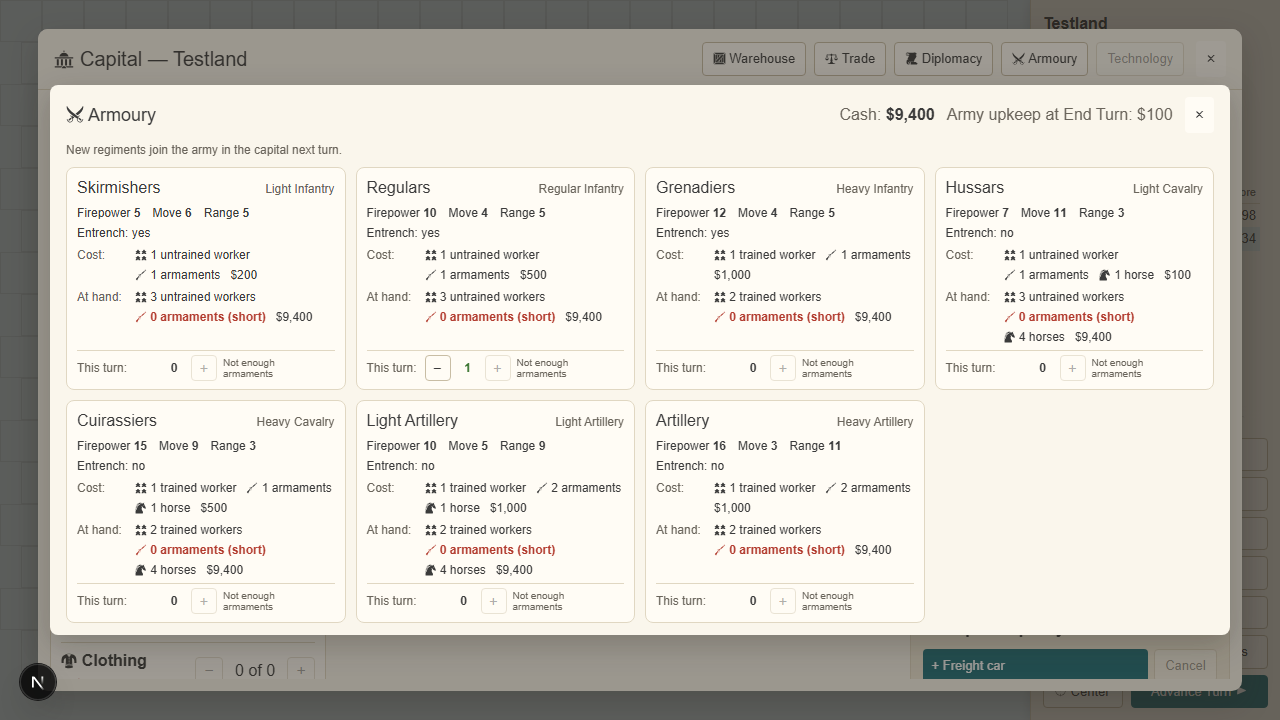
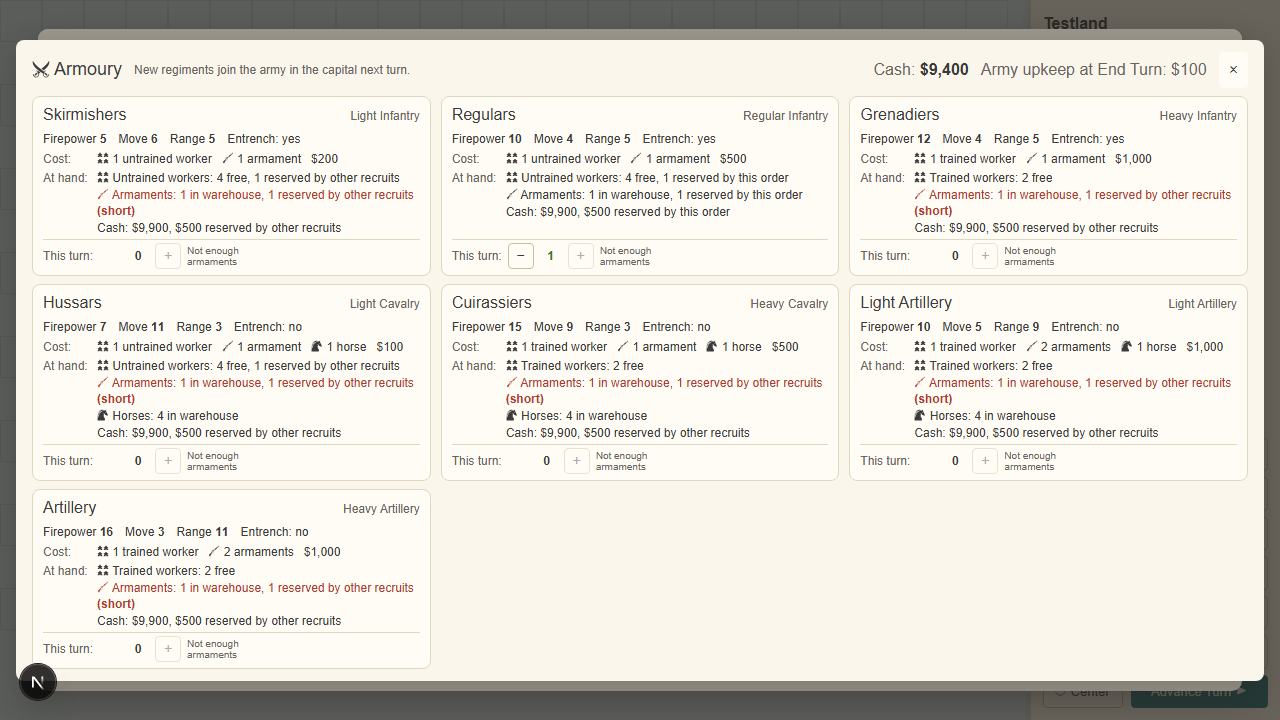
docs(m8): review of the QA fix round: FR-270, FR-271, journal entry with evidence, map shot after orders
- Requirements: FR-270 (marches both ways), FR-271 (arrow ends measured in the browser, the map shot);
  FR-263's status names them; the QA input shots are those of 744d755.
- Journal: the entry (findings, red runs, gate); Resuming here; the engine and UI halves' entries moved
  unchanged to docs/journal/archive-M8.md (the journal stays under 400 lines).
- Architecture: the opposite-arrow offset and the e2e check.
- Screenshots: docs/journal/m8-qa-map.png new; m8-armoury.png, m8-army.png, m8-map.png re-taken from
  the current code.

Changed region(s): [[0.0, 0.0306, 1.0, 0.9472]]

diff --git a/docs/journal.md b/docs/journal.md
@@ -22,7 +22,8 @@
   `docs/journal/archive-M7.md`). Card Q47 (the World market's greyed "−") still open.
 - 2026-11-13 M8 Armies in progress on `claude/m8-armies` (worktree `imperialism-game-revival-fee36d`): the engine half
   (FR-199 to FR-209, FR-213, FR-215), the UI half (FR-210 to FR-212, FR-214), the review fix round (20 findings,
-  FR-260 to FR-262) and the QA fix round (7 items, FR-263 to FR-269) are committed; not pushed. Next: the re-review, the PR.
+  FR-260 to FR-262), the QA fix round (7 items, FR-263 to FR-269) and its review's fixes (3 findings, FR-270, FR-271) are
+  committed; not pushed. The engine and UI halves' entries are in `docs/journal/archive-M8.md`. Next: the re-review, the PR.
 
 Carried forward:
 - Deferred: river ports and the depot-on-port rule (rules 04); University fees; the power plant.
@@ -175,128 +176,12 @@ the Board of Trade and the Deal Book, the scripted player trading through it, on
 FR-259 tested; 1458 unit tests, Playwright 32 passed, 1 skipped; every v1 baseline unchanged. Merged as PR 25 (main d16afa7).
 Open: card Q47 (the World market's greyed "−").
 
-## 2026-11-13 M8 Armies, engine half (FR-199 to FR-209, FR-213, FR-215)
+## 2026-11-13 M8 Armies, engine half and UI half (archived)
 
-Size: L (engine-wide: new state, four order kinds, three turn steps, the scripted player). One engine agent (Opus 5.5, xhigh, no
-subagents, no advisor call), started by the M8 workflow. Branch `claude/m8-armies` from main d16afa7 (worktree
-`imperialism-game-revival-fee36d`), not pushed. The UI agent builds FR-210 to FR-212 and FR-214 next, on the API below.
-
-Plan-lite:
-- Change: `state.armies` in the FR-204 shape (one army per country per province) with `state.regimentsRaised`; the regiment table
-  `definisions/regiments.ts`; `engine/army/` (reads, edits, start forces); `orders/armyOrders.ts` (`setRecruitment`, `moveArmy`,
-  `cancelArmyMove`, `disbandRegiments`, reason `not-adjacent`); `systems/armySystem.ts` (disbands and upkeep after trade, recruits
-  after combat) and the combat phase (marches, healing); `ai/scriptedArmy.ts`; `militaryStrength` on the new armies.
-- Consumers: the map markers, the Army screen and the Armoury (UI half), the news, the Deal Book's bottom line, the scripted player, M9.
-- Tests: FR-199 `engine/regiments.test.ts` (13); FR-200, 201, 203 to 208 `engine/armies.test.ts` (51) and `engine/validate.test.ts` (4
-  accepted, 35 refusal rows); FR-202 `engine/upkeep.test.ts` (9); FR-205 text and FR-209 `ui/gameText.test.ts` (13; "14" until the review fix round, R10); FR-213
-  `engine/scriptedArmy.test.ts` (13); FR-174 `engine/scriptedDiplomacy.test.ts` (builders rewritten); FR-215 `engine/continentScore.test.ts`,
-  `engine/v2Trade40.test.ts`.
-- Verify: `npm test`, `npm run lint`, `npx tsc --noEmit`, `npm run build`, `PORT=3168 npx playwright test --workers=1`.
-- Objection: decision 2 adds a scripted-player rule no FR states (keep two turns of upkeep); without it nation 2 lost 2 of its 3 field
-  regiments for want of money on seed 2 (continent, world market).
-
-Decisions (defaults, nobody to ask):
-1. A march into another country's province is refused in M8: `not-at-war` without an active war (FR-205), `not-owner` with one, until M9
-   builds the attack (FR-216). The "March to" choices (`marchTargets`) are the nation's own bordering provinces only.
-2. FR-213 "keeps a garrison": the scripted player drops any order that would take its treasury below two turns of upkeep (one on the last
-   turn). FR-157's games then pay $100 every turn with nothing disbanded. Objection: in the partners games a nation whose income stops
-   in the last turns still loses its field army (seed 2 nation 1 on turn 39, seed 4 nation 2 on turn 40); a full reserve would cost
-   development. Suggested card for the page: keep it, revisit with M9's war AI.
-3. One pending order per regiment: a march replaces its disband and a disband its march; `cancelArmyMove` cancels marches only, so a
-   disband is undone only by ordering a march (the Army screen shows no control for it, FR-211).
-4. Ids `regiment-<n>`, n counting every regiment ever raised (higher = newer, FR-202); names from a per-owner, per-type counter, so the
-   recruit after a disbanded "3rd Regulars" is "4th Regulars". Armies are kept sorted by province then owner, regiments by id.
-5. FR-203 numbering: the field army first (ids 1 to 3 for Testland), then the Minutemen province by province in state order (NW 1st to
-   4th, NE 5th to 8th, SW 9th to 12th, SE 13th to 16th); each minor 1st to 3rd.
-6. Recruiting is `Nation.recruiting` (it involves no second country, so no intent); the workers leave `industry.workers` when ordered
-   and neither work nor eat that turn. A nation that no longer holds its capital province raises no recruit (M9 edge).
-7. FR-213 under a threat: the run's armaments come first, their steel is kept from expansion, and the 2 armaments are kept from the
-   world market. Healing (FR-208) applies to minors' militia too.
-8. Baselines: the FR-157 conditions run on the real continent (with the upkeep); every turn-by-turn equality with two-islands (FR-157's
-   score, FR-215's 40-turn M4 comparison, FR-245's "world" test) runs on the continent without the start forces (`withoutStartForces`,
-   tests/engine/armyFixtures.ts). In "world" the current scripted player sells the 4 start horses on turn 1 (partners: goods only).
-9. The M6 and M7 tests that read a continent treasury after End Turn count the $100 upkeep (`UPKEEP` in diplomacy.test.ts), and four e2e
-   specs too (play-turns, market-and-game-over, m6-diplomacy, m7-trade). The Deal Book's `militaryUpkeep` reads `army-upkeep`.
-
-API for the UI half (all from `@/engine`):
-- Data: `REGIMENTS[type]` (`name`, `category`, `arm`, `stats` with FPN, move, range, `armamentsCost`; `worker`, `horses`, `cash`),
-  `RECRUITABLE_REGIMENTS` (the 7 Armoury types), `entrenches(type)`, `isMilitia(type)`, `UPKEEP_PER_ARMS`.
-- Map markers (FR-210): `armyMarkers(state)` gives `{ provinceId, seatTileId, ownerId, forceSize, regiments, militia }`, the province's
-  owner first. Army screen (FR-211): `armyAt(state, ownerId, provinceId)`, `forceSize(army)`, `regimentStatus(state, id)` (`defending`,
-  `available`, `marching` with `toProvinceId`, `disband-ordered`), `marchTargets(state, nationId, provinceId)`. Armoury (FR-212):
-  `recruitingOf(nation, type)`, `freeWorkersOf(nation, grade)`, `capitalProvinceOf(state, id)`.
-- Orders: `setRecruitment { regiment, count }`, `moveArmy { fromProvinceId, regimentIds, toProvinceId }`, `cancelArmyMove { regimentIds }`,
-  `disbandRegiments { provinceId, regimentIds }`; `validateOrder` gives each refusal, `REFUSAL_TEXT["not-adjacent"]` its words.
-- The news panel already names provinces in "3 regiments marched from ... to ...".
-
-| Claim | Command | Result (quoted) |
-|---|---|---|
-| Red: the new and changed tests before the implementation | `npx vitest run` on the 7 files (`.gate/m8/red.txt`) | `Test Files 7 failed (7)`, `Tests 17 failed \| 77 passed (94)`; 5 files fail to load (`Cannot find module '@/engine/army/armies'`, `'@/definisions/regiments'`, `'@/engine/ai/scriptedArmy'`, `'@/engine/systems/armySystem'`); e.g. `expected [ +0, +0 ] to deeply equal [ 36, 36 ]`, `expected undefined to be '2 Regulars recruited.'` |
-| Red: decision 2 (the guard switched off) | `npx vitest run tests/engine/scriptedArmy.test.ts tests/engine/continentScore.test.ts` | `Test Files 2 failed (2)`: `expected 50 to be greater than or equal to 100`; FR-157 seed 2 `"noPay": 2` |
-| Unit tests | `npm test` | `Test Files 87 passed (87)`, `Tests 1603 passed (1603)` (+145 on 1458) |
-| v1 baselines unchanged (FR-159) | `npm test` console; `git diff --stat d16afa7 --` the eight FR-159 files | `FR-125 seed 1: t15 616/390 (1.58) ... t40 1493/650 (2.30)` as on main; the diff is empty |
-| FR-157, FR-215 | `npm test` console | `continent with the start army / without / two-islands: [[1,1419,1493,1493],[2,1451,1496,1496],[3,1441,1490,1490],[4,1469,1476,1476]]` |
-| FR-247 measured again | `npm test` console | seed 1 `"minorDeals":[54,50],"minorPurchases":[24,17],"minorsDealt":[4,1],"treasury":[805,3177]`; all four in FR-247's status |
-| Lint | `npm run lint` | `✖ 3 problems (0 errors, 3 warnings)` (the three of M6) |
-| Types | `npx tsc --noEmit` | exit 0, no output |
-| Build | `npm run build` | `✓ Compiled successfully in 5.9s`, `✓ Generating static pages (4/4)` |
-| e2e, before the four specs counted the upkeep | `PORT=3168 npx playwright test --workers=1 --reporter=line` | `30 passed (2.8m)`, `2 failed` (`Expected: 9500 Received: 9400`, `Expected: 10297 Received: 10197`), `1 skipped` |
-| e2e, after | same | `32 passed (3.0m)`, `1 skipped` (the old skip) |
-
-In the app (once the UI half is in): New game; End Turn: the news reads "Army upkeep: $100." and the Deal Book's bottom line
-"Military upkeep $100".
-
-## 2026-11-13 M8 Armies, UI half (FR-210 to FR-212, FR-214)
-
-Size: L (milestone UI half: map markers, two new dialogs, one e2e spec). One UI agent (Opus 5.5, xhigh, no subagents, no
-advisor call), started by the M8 workflow on the engine half's API. Branch `claude/m8-armies`, not pushed.
-
-Plan-lite:
-- Change: `components/army/armyView.ts` (markers by seat tile, the Army screen's rows and controls) and `armouryView.ts` (the
-  cards), no React; `Tile/TileArmy.tsx` (the markers), `ArmyModal.tsx`, `ArmouryModal.tsx`, `army/Army.module.css`; store flags
-  `armyProvinceId` (`openArmy`, `closeArmy`) and `isArmouryOpen` (`openArmoury`, `closeArmoury`), both reset by New game;
-  `selectArmyMarkersBySeat`; the capital's "Armoury" button on a world with provinces; three Game Icons (tent, pitchfork, sabres).
-- Consumers: the player; M9 adds "Attack Arvelia" to "March to" and the Attack screen (FR-230) on the same view module.
-- Tests: FR-210 `ui/armyMarkers.test.tsx` (9); FR-211 `ui/armyDialog.test.tsx` (19); FR-212 `ui/armouryDialog.test.tsx` (15);
-  FR-022 `ui/uiWritesOnlyOrders.test.ts` (+1: the new screens are scanned and send through submitOrder); FR-084 `ui/icons.test.tsx`
-  and FR-160 `store/computerNations.test.ts` (the new icon names and store keys added to their lists); FR-214 `e2e/m8-armies.spec.ts`.
-- Verify: `npm test`, `npm run lint`, `npx tsc --noEmit`, `npm run build`, `PORT=3160 npx playwright test --workers=1 --reporter=line`.
-- Objection: a 24 px marker cannot share a 42 px seat tile with the civilians' 24 px button without overlapping something; the
-  markers lie half over the seat's left edge and cover the right edge of the tile to the left (decision 2).
-
-Decisions (defaults, nobody to ask):
-1. The spec file is `e2e/m8-armies.spec.ts`, as FR-214 names it (the task brief said `e2e/m8.spec.ts`; the requirement row wins).
-2. Marker place: from 11 px left of the seat tile to 13 px inside it, 9 px from its top, so it clears the civilians' button in the
-   bottom right, the tile's icon and the level badge's text; on a minor's capital 1 px from the top, clear of its name tag. One
-   24 x 24 chip per country, the owner's colour as its border; the force size (tent) on that colour above, the militia
-   (pitchfork) below; a chip with one line shows it larger. Objection: on a developed Great Power seat the job markers under the
-   level badge are hidden behind the chip while a job runs (the tile panel still lists them).
-3. A marker without militia reads "Testland army: force size 2, 1 regiment" (no "0 militia"); "1 regiment" in the singular.
-4. The Army screen lists the regiments that may march first, then the militia; "Cancel march" is a button on each marching row;
-   nothing ticked reads "Tick the regiments to march first." (or "to disband"), no bordering province of ours "No province of ours
-   borders this one."; other refusals are the engine's words as a sentence ("The game is over."). The disband question's buttons
-   are "Yes, disband" and "Keep them"; Escape keeps them. A disband ordered has no control (engine decision 3, card kept).
-5. The Armoury shows horses in the cost and at hand only for the types that need them; "+" reasons: "Not enough money",
-   "Not enough armaments", "Not enough horses", "No free trained worker". A "This turn:" label stands before the count.
-6. Both dialogs lie at z-index 76 (as Diplomacy), over the capital; the Army screen is 860 px wide, the Armoury 1180 px with 4 cards
-   a row; at 1280x720 neither the page nor the dialog scrolls (checked in the e2e spec).
-
-| Claim | Command | Result (quoted) |
-|---|---|---|
-| Red: the new and changed UI tests before the implementation | `npx vitest run` on the 6 files (`.gate/m8ui/red.txt`) | `Test Files 6 failed (6)`, `Tests 3 failed \| 26 passed (29)`; 3 files fail to load (`Failed to resolve import "@/components/ArmyModal"`, `"@/components/ArmouryModal"`); `expected [ 'about', 'advanceTurn', …(16) ] to deeply equal [ …(19) ]` |
-| FR-210 to FR-212 covered | `npx vitest run` on the 6 files (`.gate/m8ui/green2.txt` and the full run) | `Tests 34 passed (34)` for the two dialog files; armyMarkers `9 tests` passed |
-| Unit tests | `npm test` (`.gate/m8ui/gate-test.txt`) | `Test Files 90 passed (90)`, `Tests 1647 passed (1647)` (+44 on 1603) |
-| v1 baselines and FR-215 unchanged | `npm test` console | `FR-125 seed 1: t15 616/390 (1.58) ... t40 1493/650 (2.30)` as on main; `[[1,1419,1493,1493],[2,1451,1496,1496],[3,1441,1490,1490],[4,1469,1476,1476]]` as in the engine half |
-| Lint | `npm run lint` | `✖ 3 problems (0 errors, 3 warnings)` (the three of M6) |
-| Types | `npx tsc --noEmit` | exit 0, no output |
-| Build | `npm run build` | `✓ Compiled successfully in 7.1s`, `✓ Generating static pages (4/4)` |
-| FR-214 | `PORT=3160 npx playwright test e2e/m8-armies.spec.ts --workers=1 --reporter=line` | `1 passed (13.7s)` |
-| e2e suite | `PORT=3160 npx playwright test --workers=1 --reporter=line` (`.gate/m8ui/e2e-final.txt`) | `33 passed (2.0m)`, `1 skipped` (the old skip) |
-
-In the app: New game; every province's seat shows its army marker (Testland's capital: a crimson chip "4" over "4", named
-"Testland army: force size 4, 3 regiments, 4 militia"). Click it: the Army screen; tick a regiment, "March to", March. Open Capital,
-Armoury: 7 cards, "+" disabled with "Not enough armaments" until the metal works make one. Screenshots: `.gate/m8ui/shots/`
-(m8-armoury.png, m8-army.png, m8-map.png).
+Entries in `docs/journal/archive-M8.md`. Engine half (FR-199 to FR-209, FR-213, FR-215): `state.armies`, the regiment table, four
+army orders, the upkeep, recruit and march steps of the turn, the scripted army and the start forces; nine decisions and the API for
+the UI half; 1603 unit tests. UI half (FR-210 to FR-212, FR-214): the map markers, the Army screen, the Armoury and
+e2e/m8-armies.spec.ts; six decisions; 1647 unit tests, Playwright 33 passed, 1 skipped.
 
 ## 2026-11-13 M8 Armies, review fix round (20 findings; FR-260 to FR-262)
 
@@ -367,7 +252,7 @@ North-West marker's screen says "Militia defend their province: they cannot marc
 ## 2026-11-13 M8 Armies, QA fix round (7 items; FR-263 to FR-269)
 
 Size: M (map, two dialogs, HUD). One fix agent (Opus 5.5, xhigh, no subagents, no advisor call), started by the M8 workflow, on Nathan's QA
-of `m8-armoury.png`, `m8-army.png`, `m8-map.png`; not pushed. Plan-lite: as in the table; consumers the player and M9 (`marchArrows`);
+of `m8-armoury.png`, `m8-army.png`, `m8-map.png` (as of 744d755; re-taken in the next entry); not pushed. Plan-lite: as in the table; consumers the player and M9 (`marchArrows`);
 verify the gate. Objection: three Armoury cards a row, so below 1280x720 its card area scrolls sooner (at 1280x720 it fits, checked).
 
 | Item | What changed | Test |
@@ -397,3 +282,32 @@ scroll option in whole lines (`round(down, 100cqh, 20px)`); the fade kept `flex:
 | e2e suite | `PORT=3160 npx playwright test --workers=1 --reporter=line` (`.gate/m8qa/gate-e2e.txt`) | `35 passed (5.1m)`, `1 skipped` (the old skip; +2 on 33, e2e/m8-qa.spec.ts) |
 
 In the app: Armoury "1 reserved by this order"; March draws a dashed arrow with "1"; Disband "−1". Shots: `docs/journal/m8-qa-armoury.png`, `m8-qa-army.png`, `m8-qa-upkeep-warning.png`.
+
+## 2026-11-13 M8 Armies, review of the QA fix round (3 findings; FR-270, FR-271)
+
+Size: S (one view function, one e2e spec, the shots). One fix agent (Opus 5.5, xhigh, no subagents, no advisor call), started by the M8
+workflow; not pushed. All three findings (minor) fixed; none carried. Plan-lite: `marchArrows` keeps an arrow with an opposite one 10 px
+to its own right (`OPPOSED_OFFSET`); e2e/m8-armies.spec.ts measures the arrows against the drawn markers (`expectArrowOnMarkers`) and
+orders marches both ways and a disband on turn 4; consumers the player and M9's attack arrows; verify the gate. Objection: the spec copies
+15 px and 10 px from armyView.ts, so a deliberate change of either changes the spec too. The engine and UI halves moved to archive-M8.md.
+
+| Finding | What changed | Test |
+|---|---|---|
+| F1 FR-270 | marches both ways between two provinces: each arrow 10 px to its own right, so the count badges (r 8) lie 20 px apart; a lone arrow stays on the line between the markers | ui/armyMarkers (+1), e2e m8-armies (turn 4) |
+| F2 FR-271 | the e2e reads each marker's box in the browser and the arrow's line and tip in map pixels (`getScreenCTM`): 15 px along, 0 or 10 px to the right, within 1.5 px, for 3 arrows; the `MARKER_CENTRE` comment names the check | e2e m8-armies |
+| F3 FR-271 | the spec saves and attaches m8-qa-map.png on turn 4: arrows "2" and "1" side by side, "−1", turn 3's news in whole lines; m8-armoury.png, m8-army.png, m8-map.png re-taken from this code (Nathan's QA input stays at 744d755) | e2e m8-armies |
+
+| Claim | Command | Result (quoted) |
+|---|---|---|
+| Red: F1, unit | `npx vitest run tests/ui/armyMarkers.test.tsx` (`.gate/m8qa2/red-unit.txt`) | `Tests 1 failed \| 14 passed (15)`; `expected -0.019156525704419086 to be greater than or equal to 8` |
+| Red: F1, e2e on the old armyView.ts | `PORT=3160 npx playwright test e2e/m8-armies.spec.ts --workers=1` (`e2e-red-f1.txt`) | `1 failed`; `count badges [{"x":128.75,"y":285.25,"width":17.5,"height":17.5},{"x":128.75,"y":285.25,...}] share no pixel` |
+| F2 catches drift: `.armies` top 9 to 14 px | same (`e2e-red-css.txt`), the CSS restored after | `1 failed`; `the line starts 20.5 px on from the source marker's centre` |
+| FR-270, FR-271 | same, with SCREENSHOT_DIR (`e2e-target.txt`) | `1 passed (43.6s)` |
+| Unit tests | `npm test` (`.gate/m8qa2/gate-test.txt`) | `Test Files 92 passed (92)`, `Tests 1709 passed (1709)` (+1 on 1708) |
+| Baselines unchanged | `npm test` console | `FR-125 seed 1: t15 616/390 (1.58)`; FR-260 `[[1,1419],[2,1451],[3,1441],[4,1469]]`; FR-247 seed 2 `"treasury":[150,2376],"noPay":[0,0],"capitalArms":[4,4]` |
+| Lint, types | `npm run lint`; `npx tsc --noEmit` | `✖ 3 problems (0 errors, 3 warnings)` (the three of M6); tsc exit 0, no output |
+| Build | `npm run build` (`gate-build.txt`) | `✓ Compiled successfully in 15.4s`, `✓ Generating static pages (4/4)` |
+| e2e suite | `PORT=3160 npx playwright test --workers=1 --reporter=line` (`gate-e2e.txt`) | `35 passed (7.1m)`, `1 skipped` (the old skip; the same 36 tests as the QA fix round) |
+
+In the app: on turn 4 march 3rd Regulars from North-West to South-West and 1st, 2nd Regulars the other way: two dashed arrows side by
+side with "1" and "2". Shot: `docs/journal/m8-qa-map.png`.

diff --git a/docs/journal/archive-M8.md b/docs/journal/archive-M8.md
@@ -1,0 +1,128 @@
+# Journal archive: M8 Armies
+
+Moved from `docs/journal.md` on 2026-11-13 during M8 (FLOW: the journal stays under 400 lines; the review of the QA
+fix round needed room before the milestone ends). The two finished entries, the engine half and the UI half, are
+unchanged. The review fix round, the QA fix round and the review of the QA fix round stay in the journal.
+
+## 2026-11-13 M8 Armies, engine half (FR-199 to FR-209, FR-213, FR-215)
+
+Size: L (engine-wide: new state, four order kinds, three turn steps, the scripted player). One engine agent (Opus 5.5, xhigh, no
+subagents, no advisor call), started by the M8 workflow. Branch `claude/m8-armies` from main d16afa7 (worktree
+`imperialism-game-revival-fee36d`), not pushed. The UI agent builds FR-210 to FR-212 and FR-214 next, on the API below.
+
+Plan-lite:
+- Change: `state.armies` in the FR-204 shape (one army per country per province) with `state.regimentsRaised`; the regiment table
+  `definisions/regiments.ts`; `engine/army/` (reads, edits, start forces); `orders/armyOrders.ts` (`setRecruitment`, `moveArmy`,
+  `cancelArmyMove`, `disbandRegiments`, reason `not-adjacent`); `systems/armySystem.ts` (disbands and upkeep after trade, recruits
+  after combat) and the combat phase (marches, healing); `ai/scriptedArmy.ts`; `militaryStrength` on the new armies.
+- Consumers: the map markers, the Army screen and the Armoury (UI half), the news, the Deal Book's bottom line, the scripted player, M9.
+- Tests: FR-199 `engine/regiments.test.ts` (13); FR-200, 201, 203 to 208 `engine/armies.test.ts` (51) and `engine/validate.test.ts` (4
+  accepted, 35 refusal rows); FR-202 `engine/upkeep.test.ts` (9); FR-205 text and FR-209 `ui/gameText.test.ts` (13; "14" until the review fix round, R10); FR-213
+  `engine/scriptedArmy.test.ts` (13); FR-174 `engine/scriptedDiplomacy.test.ts` (builders rewritten); FR-215 `engine/continentScore.test.ts`,
+  `engine/v2Trade40.test.ts`.
+- Verify: `npm test`, `npm run lint`, `npx tsc --noEmit`, `npm run build`, `PORT=3168 npx playwright test --workers=1`.
+- Objection: decision 2 adds a scripted-player rule no FR states (keep two turns of upkeep); without it nation 2 lost 2 of its 3 field
+  regiments for want of money on seed 2 (continent, world market).
+
+Decisions (defaults, nobody to ask):
+1. A march into another country's province is refused in M8: `not-at-war` without an active war (FR-205), `not-owner` with one, until M9
+   builds the attack (FR-216). The "March to" choices (`marchTargets`) are the nation's own bordering provinces only.
+2. FR-213 "keeps a garrison": the scripted player drops any order that would take its treasury below two turns of upkeep (one on the last
+   turn). FR-157's games then pay $100 every turn with nothing disbanded. Objection: in the partners games a nation whose income stops
+   in the last turns still loses its field army (seed 2 nation 1 on turn 39, seed 4 nation 2 on turn 40); a full reserve would cost
+   development. Suggested card for the page: keep it, revisit with M9's war AI.
+3. One pending order per regiment: a march replaces its disband and a disband its march; `cancelArmyMove` cancels marches only, so a
+   disband is undone only by ordering a march (the Army screen shows no control for it, FR-211).
+4. Ids `regiment-<n>`, n counting every regiment ever raised (higher = newer, FR-202); names from a per-owner, per-type counter, so the
+   recruit after a disbanded "3rd Regulars" is "4th Regulars". Armies are kept sorted by province then owner, regiments by id.
+5. FR-203 numbering: the field army first (ids 1 to 3 for Testland), then the Minutemen province by province in state order (NW 1st to
+   4th, NE 5th to 8th, SW 9th to 12th, SE 13th to 16th); each minor 1st to 3rd.
+6. Recruiting is `Nation.recruiting` (it involves no second country, so no intent); the workers leave `industry.workers` when ordered
+   and neither work nor eat that turn. A nation that no longer holds its capital province raises no recruit (M9 edge).
+7. FR-213 under a threat: the run's armaments come first, their steel is kept from expansion, and the 2 armaments are kept from the
+   world market. Healing (FR-208) applies to minors' militia too.
+8. Baselines: the FR-157 conditions run on the real continent (with the upkeep); every turn-by-turn equality with two-islands (FR-157's
+   score, FR-215's 40-turn M4 comparison, FR-245's "world" test) runs on the continent without the start forces (`withoutStartForces`,
+   tests/engine/armyFixtures.ts). In "world" the current scripted player sells the 4 start horses on turn 1 (partners: goods only).
+9. The M6 and M7 tests that read a continent treasury after End Turn count the $100 upkeep (`UPKEEP` in diplomacy.test.ts), and four e2e
+   specs too (play-turns, market-and-game-over, m6-diplomacy, m7-trade). The Deal Book's `militaryUpkeep` reads `army-upkeep`.
+
+API for the UI half (all from `@/engine`):
+- Data: `REGIMENTS[type]` (`name`, `category`, `arm`, `stats` with FPN, move, range, `armamentsCost`; `worker`, `horses`, `cash`),
+  `RECRUITABLE_REGIMENTS` (the 7 Armoury types), `entrenches(type)`, `isMilitia(type)`, `UPKEEP_PER_ARMS`.
+- Map markers (FR-210): `armyMarkers(state)` gives `{ provinceId, seatTileId, ownerId, forceSize, regiments, militia }`, the province's
+  owner first. Army screen (FR-211): `armyAt(state, ownerId, provinceId)`, `forceSize(army)`, `regimentStatus(state, id)` (`defending`,
+  `available`, `marching` with `toProvinceId`, `disband-ordered`), `marchTargets(state, nationId, provinceId)`. Armoury (FR-212):
+  `recruitingOf(nation, type)`, `freeWorkersOf(nation, grade)`, `capitalProvinceOf(state, id)`.
+- Orders: `setRecruitment { regiment, count }`, `moveArmy { fromProvinceId, regimentIds, toProvinceId }`, `cancelArmyMove { regimentIds }`,
+  `disbandRegiments { provinceId, regimentIds }`; `validateOrder` gives each refusal, `REFUSAL_TEXT["not-adjacent"]` its words.
+- The news panel already names provinces in "3 regiments marched from ... to ...".
+
+| Claim | Command | Result (quoted) |
+|---|---|---|
+| Red: the new and changed tests before the implementation | `npx vitest run` on the 7 files (`.gate/m8/red.txt`) | `Test Files 7 failed (7)`, `Tests 17 failed \| 77 passed (94)`; 5 files fail to load (`Cannot find module '@/engine/army/armies'`, `'@/definisions/regiments'`, `'@/engine/ai/scriptedArmy'`, `'@/engine/systems/armySystem'`); e.g. `expected [ +0, +0 ] to deeply equal [ 36, 36 ]`, `expected undefined to be '2 Regulars recruited.'` |
+| Red: decision 2 (the guard switched off) | `npx vitest run tests/engine/scriptedArmy.test.ts tests/engine/continentScore.test.ts` | `Test Files 2 failed (2)`: `expected 50 to be greater than or equal to 100`; FR-157 seed 2 `"noPay": 2` |
+| Unit tests | `npm test` | `Test Files 87 passed (87)`, `Tests 1603 passed (1603)` (+145 on 1458) |
+| v1 baselines unchanged (FR-159) | `npm test` console; `git diff --stat d16afa7 --` the eight FR-159 files | `FR-125 seed 1: t15 616/390 (1.58) ... t40 1493/650 (2.30)` as on main; the diff is empty |
+| FR-157, FR-215 | `npm test` console | `continent with the start army / without / two-islands: [[1,1419,1493,1493],[2,1451,1496,1496],[3,1441,1490,1490],[4,1469,1476,1476]]` |
+| FR-247 measured again | `npm test` console | seed 1 `"minorDeals":[54,50],"minorPurchases":[24,17],"minorsDealt":[4,1],"treasury":[805,3177]`; all four in FR-247's status |
+| Lint | `npm run lint` | `✖ 3 problems (0 errors, 3 warnings)` (the three of M6) |
+| Types | `npx tsc --noEmit` | exit 0, no output |
+| Build | `npm run build` | `✓ Compiled successfully in 5.9s`, `✓ Generating static pages (4/4)` |
+| e2e, before the four specs counted the upkeep | `PORT=3168 npx playwright test --workers=1 --reporter=line` | `30 passed (2.8m)`, `2 failed` (`Expected: 9500 Received: 9400`, `Expected: 10297 Received: 10197`), `1 skipped` |
+| e2e, after | same | `32 passed (3.0m)`, `1 skipped` (the old skip) |
+
+In the app (once the UI half is in): New game; End Turn: the news reads "Army upkeep: $100." and the Deal Book's bottom line
+"Military upkeep $100".
+
+## 2026-11-13 M8 Armies, UI half (FR-210 to FR-212, FR-214)
+
+Size: L (milestone UI half: map markers, two new dialogs, one e2e spec). One UI agent (Opus 5.5, xhigh, no subagents, no
+advisor call), started by the M8 workflow on the engine half's API. Branch `claude/m8-armies`, not pushed.
+
+Plan-lite:
+- Change: `components/army/armyView.ts` (markers by seat tile, the Army screen's rows and controls) and `armouryView.ts` (the
+  cards), no React; `Tile/TileArmy.tsx` (the markers), `ArmyModal.tsx`, `ArmouryModal.tsx`, `army/Army.module.css`; store flags
+  `armyProvinceId` (`openArmy`, `closeArmy`) and `isArmouryOpen` (`openArmoury`, `closeArmoury`), both reset by New game;
+  `selectArmyMarkersBySeat`; the capital's "Armoury" button on a world with provinces; three Game Icons (tent, pitchfork, sabres).
+- Consumers: the player; M9 adds "Attack Arvelia" to "March to" and the Attack screen (FR-230) on the same view module.
+- Tests: FR-210 `ui/armyMarkers.test.tsx` (9); FR-211 `ui/armyDialog.test.tsx` (19); FR-212 `ui/armouryDialog.test.tsx` (15);
+  FR-022 `ui/uiWritesOnlyOrders.test.ts` (+1: the new screens are scanned and send through submitOrder); FR-084 `ui/icons.test.tsx`
+  and FR-160 `store/computerNations.test.ts` (the new icon names and store keys added to their lists); FR-214 `e2e/m8-armies.spec.ts`.
+- Verify: `npm test`, `npm run lint`, `npx tsc --noEmit`, `npm run build`, `PORT=3160 npx playwright test --workers=1 --reporter=line`.
+- Objection: a 24 px marker cannot share a 42 px seat tile with the civilians' 24 px button without overlapping something; the
+  markers lie half over the seat's left edge and cover the right edge of the tile to the left (decision 2).
+
+Decisions (defaults, nobody to ask):
+1. The spec file is `e2e/m8-armies.spec.ts`, as FR-214 names it (the task brief said `e2e/m8.spec.ts`; the requirement row wins).
+2. Marker place: from 11 px left of the seat tile to 13 px inside it, 9 px from its top, so it clears the civilians' button in the
+   bottom right, the tile's icon and the level badge's text; on a minor's capital 1 px from the top, clear of its name tag. One
+   24 x 24 chip per country, the owner's colour as its border; the force size (tent) on that colour above, the militia
+   (pitchfork) below; a chip with one line shows it larger. Objection: on a developed Great Power seat the job markers under the
+   level badge are hidden behind the chip while a job runs (the tile panel still lists them).
+3. A marker without militia reads "Testland army: force size 2, 1 regiment" (no "0 militia"); "1 regiment" in the singular.
+4. The Army screen lists the regiments that may march first, then the militia; "Cancel march" is a button on each marching row;
+   nothing ticked reads "Tick the regiments to march first." (or "to disband"), no bordering province of ours "No province of ours
+   borders this one."; other refusals are the engine's words as a sentence ("The game is over."). The disband question's buttons
+   are "Yes, disband" and "Keep them"; Escape keeps them. A disband ordered has no control (engine decision 3, card kept).
+5. The Armoury shows horses in the cost and at hand only for the types that need them; "+" reasons: "Not enough money",
+   "Not enough armaments", "Not enough horses", "No free trained worker". A "This turn:" label stands before the count.
+6. Both dialogs lie at z-index 76 (as Diplomacy), over the capital; the Army screen is 860 px wide, the Armoury 1180 px with 4 cards
+   a row; at 1280x720 neither the page nor the dialog scrolls (checked in the e2e spec).
+
+| Claim | Command | Result (quoted) |
+|---|---|---|
+| Red: the new and changed UI tests before the implementation | `npx vitest run` on the 6 files (`.gate/m8ui/red.txt`) | `Test Files 6 failed (6)`, `Tests 3 failed \| 26 passed (29)`; 3 files fail to load (`Failed to resolve import "@/components/ArmyModal"`, `"@/components/ArmouryModal"`); `expected [ 'about', 'advanceTurn', …(16) ] to deeply equal [ …(19) ]` |
+| FR-210 to FR-212 covered | `npx vitest run` on the 6 files (`.gate/m8ui/green2.txt` and the full run) | `Tests 34 passed (34)` for the two dialog files; armyMarkers `9 tests` passed |
+| Unit tests | `npm test` (`.gate/m8ui/gate-test.txt`) | `Test Files 90 passed (90)`, `Tests 1647 passed (1647)` (+44 on 1603) |
+| v1 baselines and FR-215 unchanged | `npm test` console | `FR-125 seed 1: t15 616/390 (1.58) ... t40 1493/650 (2.30)` as on main; `[[1,1419,1493,1493],[2,1451,1496,1496],[3,1441,1490,1490],[4,1469,1476,1476]]` as in the engine half |
+| Lint | `npm run lint` | `✖ 3 problems (0 errors, 3 warnings)` (the three of M6) |
+| Types | `npx tsc --noEmit` | exit 0, no output |
+| Build | `npm run build` | `✓ Compiled successfully in 7.1s`, `✓ Generating static pages (4/4)` |
+| FR-214 | `PORT=3160 npx playwright test e2e/m8-armies.spec.ts --workers=1 --reporter=line` | `1 passed (13.7s)` |
+| e2e suite | `PORT=3160 npx playwright test --workers=1 --reporter=line` (`.gate/m8ui/e2e-final.txt`) | `33 passed (2.0m)`, `1 skipped` (the old skip) |
+
+In the app: New game; every province's seat shows its army marker (Testland's capital: a crimson chip "4" over "4", named
+"Testland army: force size 4, 3 regiments, 4 militia"). Click it: the Army screen; tick a regiment, "March to", March. Open Capital,
+Armoury: 7 cards, "+" disabled with "Not enough armaments" until the metal works make one. Screenshots: `.gate/m8ui/shots/`
+(m8-armoury.png, m8-army.png, m8-map.png).

diff --git a/docs/requirements.md b/docs/requirements.md
@@ -514,18 +514,27 @@ own changes in their status.
 
 ### M8 QA fix round (2026-11-13)
 
-From Nathan's QA of the M8 screenshots (`docs/journal/m8-armoury.png`, `m8-army.png`, `m8-map.png`), seven items. The rows
+From Nathan's QA of the M8 screenshots (`docs/journal/m8-armoury.png`, `m8-army.png`, `m8-map.png` as of commit 744d755), seven items. The rows
 of FR-210, FR-211, FR-212 and FR-261 above name the parts these replace.
 
 | Id | Requirement | Status |
 |---|---|---|
-| FR-263 | Pending army orders on the map (QA item 1; Imp1 shows a move only once made, remake): WHILE the player has ordered regiments to march this turn THEN the map SHALL draw one dashed arrow per pair of provinces in the nation's colour, from the source province's army marker to the destination's seat (its marker), with the number of regiments on it, named "Testland North-West: 1 regiment marching in from Testland South-West" (`role="img"`); WHILE regiments have a disband order THEN their marker SHALL show "−1" (the count) on its corner. The player's markers' names SHALL end with ", 1 marching out", ", 1 marching in" and ", 1 to disband" while such orders stand. Only the player's own orders are drawn (another nation's are not known before End Turn); a cancel or End Turn removes them. Engine read `pendingArmyOrders(state, nationId)`. Tests: tests/engine/armyReads.test.ts, tests/ui/armyMarkers.test.tsx, e2e/m8-armies.spec.ts. | tested (as named) |
+| FR-263 | Pending army orders on the map (QA item 1; Imp1 shows a move only once made, remake): WHILE the player has ordered regiments to march this turn THEN the map SHALL draw one dashed arrow per pair of provinces in the nation's colour, from the source province's army marker to the destination's seat (its marker), with the number of regiments on it, named "Testland North-West: 1 regiment marching in from Testland South-West" (`role="img"`); WHILE regiments have a disband order THEN their marker SHALL show "−1" (the count) on its corner. The player's markers' names SHALL end with ", 1 marching out", ", 1 marching in" and ", 1 to disband" while such orders stand. Only the player's own orders are drawn (another nation's are not known before End Turn); a cancel or End Turn removes them. Engine read `pendingArmyOrders(state, nationId)`. Tests: tests/engine/armyReads.test.ts, tests/ui/armyMarkers.test.tsx, e2e/m8-armies.spec.ts. | tested (as named); marches both ways between two provinces: FR-270; the arrow ends measured against the markers in the browser: FR-271 |
 | FR-264 | Armoury wording (QA item 2; replaces "at hand", "short" and the cost line of FR-212): each card's "At hand" SHALL show one line per item, before this turn's recruit orders and what they reserve: "Untrained workers: 4 free", "Armaments: 1 in warehouse, 1 reserved by this order", "Horses: 4 in warehouse", "Cash: $10,000, $500 reserved by this order", with ", 1 reserved by other recruits" for the other cards' orders (engine read `beforeRecruiting(nation)`). An item SHALL be marked short (danger colour and "(short)") only while none of the type is ordered this turn and what is left cannot pay one, so a recruit that worked never reads short; the "+" note says what stops the next. Amounts read "1 armament", "2 armaments", "1 horse". At 1280x720 each card's cost SHALL lie on one line (three cards a row in a 1248 px dialog, the note beside the title) and a line SHALL wrap only between its parts, so no amount ("$1,000") is cut; the Armoury, its card area included, fits the window without scrolling. Tests: tests/engine/armyReads.test.ts, tests/ui/armouryDialog.test.tsx, e2e/m8-armies.spec.ts. | tested (as named) |
 | FR-265 | Arms legend (QA item 3): the Army screen keeps the "Arms" column (Imp1 ARMS) and SHALL show "Arms: armaments per regiment; each costs $25 a turn and counts toward force size" under the table, which is also the Arms column head's accessible description and title. The table heads carry `scope="col"`. Tests: tests/ui/armyDialog.test.tsx, e2e/m8-armies.spec.ts. | tested (as named); without `scope` Playwright read the heads as cells |
 | FR-266 | Upkeep here and for all provinces (QA item 4; replaces FR-261's Army screen header text): the Army screen SHALL show "Upkeep here: $50 a turn" beside "Force Size": $25 x the ARMS of the regiments now in the province without a disband order (a regiment ordered to march still counts: the upkeep step comes before the marches; $0 for militia only; engine read `upkeepIn`), and under it "Army upkeep at End Turn: $100 for all provinces" (FR-261's `due`). The Armoury keeps "Army upkeep at End Turn: $100". Tests: tests/engine/armyReads.test.ts, tests/ui/armyDialog.test.tsx, e2e/m8-armies.spec.ts. | tested (as named) |
 | FR-267 | Militia-only province (QA item 5; replaces FR-211's militia-only texts beside March and Disband, review F1): WHEN the player's army in the province is militia only THEN the Army screen SHALL show no "March to", March or Disband and say once "Militia defend their province: they cannot march or be disbanded."; its rows stay. A province with a regiment that may march keeps the controls, and "Every regiment here already has an order this turn." is unchanged. Tests: tests/ui/armyDialog.test.tsx. | tested (as named) |
 | FR-268 | News list (QA item 6; keeps FR-107 and FR-235): the HUD's news SHALL list the player's own lines first (FR-107) in its own scroll region, named by its heading "News, turn 3 (1815)" (level 3) and reached with Tab. The HUD's information is a column and the news takes the height left above the fade (FR-235), at least 3 lines, rounded down to whole lines of 20 px, so no line is cut behind the fade nor at the box's edge when scrolled to the top, and scrolling the list (wheel, End) reaches the last line, whole. Tests: tests/ui/newsPanel.test.tsx, e2e/m8-qa.spec.ts; FR-235 still holds (e2e/m5-hud-scroll.spec.ts). | tested (as named); own lines first already held (FR-107), its test passed before the change; the fade (`.hud-content::after`) must not shrink as a flex item (trap noted in globals.css) |
 | FR-269 | The upkeep warning seen in the running app (QA item 7; FR-261): e2e/m8-qa.spec.ts SHALL give Valdoria a $10,000 grant on turn 1 (the treasury to $0) and see the HUD's warning "Cash is short of the army upkeep: $100 is due at End Turn and $0 will be left. Unless this turn's sales cover the rest, the newest regiments are disbanded." whole in the window, and take one screenshot (attached to the report; saved under SCREENSHOT_DIR as m8-qa-upkeep-warning.png, in `docs/journal/`). Tests: as named. | tested (as named); a test of behaviour that held, so it passed before the round as well |
+
+### Review of the M8 QA fix round (2026-11-13)
+
+Three findings, all minor (F1 to F3). New ids for the new behaviour and the new check; FR-263's status names them.
+
+| Id | Requirement | Status |
+|---|---|---|
+| FR-270 | Marches both ways (review F1; adds to FR-263): WHEN the player has ordered regiments to march from one province to another and others back the other way this turn THEN the map SHALL draw the two arrows side by side, each 10 px to the right of the line between the two markers' centres as seen along its own way, so neither line, head nor count badge covers the other and both counts are on screen; an arrow with no opposite one SHALL stay on that line. Tests: tests/ui/armyMarkers.test.tsx, e2e/m8-armies.spec.ts. | tested (as named) |
+| FR-271 | Arrow ends on the markers as drawn (review F2 and F3; FR-263): e2e/m8-armies.spec.ts SHALL measure each march arrow against the army markers' boxes in the browser, in map pixels: the line starts 15 px on from the source marker's centre and the head's tip stops 15 px short of the destination marker's centre, along the arrow's way, and lies 0 px (a lone arrow) or 10 px (FR-270) to its right, each within 1.5 px. On turn 4, with marches both ways and a disband ordered, it SHALL take one screenshot of the map (attached to the report; saved under SCREENSHOT_DIR as m8-qa-map.png, in `docs/journal/`). Tests: as named. | tested (as named); the alignment held, so the measure passed before; with `.armies` 5 px lower it fails |
 
 ## M9 War and the attack screen
 

diff --git a/docs/ARCHITECTURE.md b/docs/ARCHITECTURE.md
@@ -227,7 +227,9 @@ only (FR-018).
   ask `validateOrder` first: a control it would refuse is disabled, its reason beside it and as its description.
   This turn's own orders show on the map before End Turn (FR-263): `selectMarchArrows` (`marchArrows`) gives
   MapView one dashed arrow per pair of provinces, drawn in its own SVG overlay at z-index 4 (above the tile
-  icons and civilians, below the markers), and a marker with regiments to disband carries "−1".
+  icons and civilians, below the markers), and a marker with regiments to disband carries "−1". Marches both ways
+  between two provinces each keep 10 px to their own right (FR-270). The marker's centre is copied from
+  Tile.module.css into `armyView.ts`; e2e/m8-armies.spec.ts measures the arrow ends against the drawn markers (FR-271).
 
 The store (`store/rootStore.ts`) holds that state under `game`, and UI state beside it:
 
